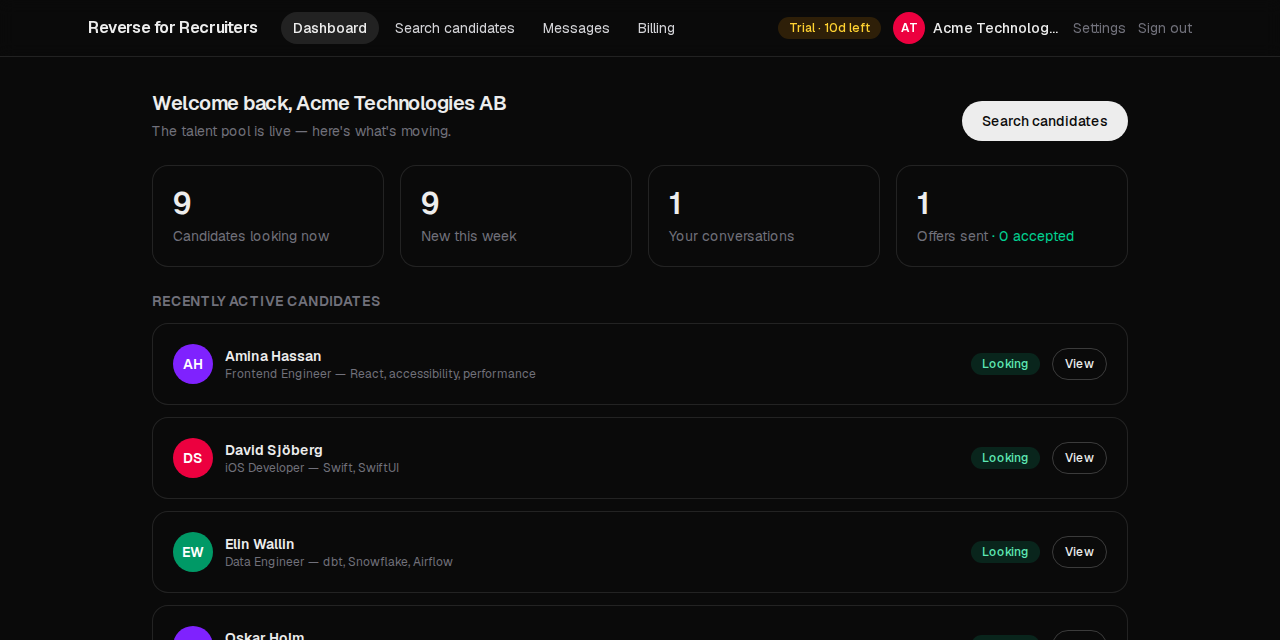
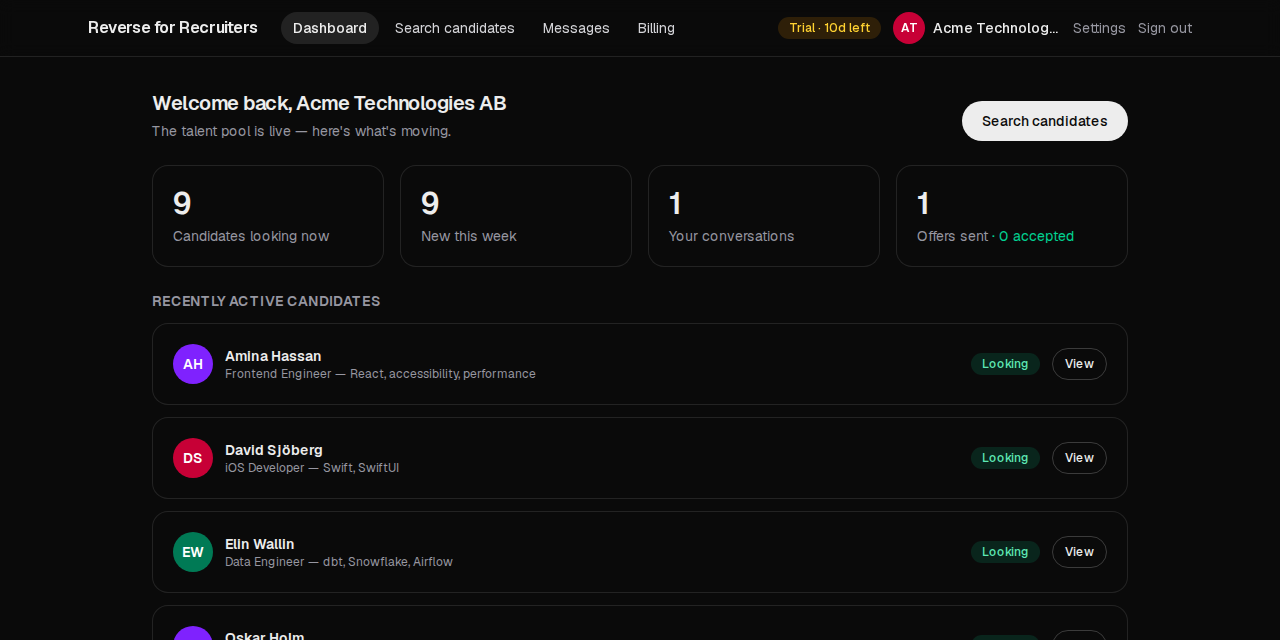
Refresh README screenshots after the contrast fixes; update session log
Claude-Session: https://claude.ai/code/session_01H3k2CXQRnZzqC1mC1eYjCK

diff --git a/SESSION-LOG.md b/SESSION-LOG.md
@@ -26,6 +26,9 @@
   - Komplett GDPR-export.
   - Sju mindre buggar.
   - Testsvit och CI.
+  - **Ny landningssida** med produktförhandsvisning.
+  - **Godkänd tillgänglighetsgranskning** (axe-core, WCAG 2.1 AA) på alla sidor.
+  - README med skärmdumpar.
 
 ## Vad du behöver göra eller bestämma
 
@@ -76,6 +79,9 @@ Tre nya migrationer följer med. Seeden återställer demodatan.
 | `0085bcc` | **GDPR-export v2** | Innehåller nu mottagna meddelanden och erbjudanden plus CV-utkastet ("everything we store about you") |
 | `f8f8b46` | Städning av död kod | `src/types/index.ts`, `pg`, fem oanvända SVG-filer och en inaktuell schema-kommentar (HANDOFF §8 punkt 14) |
 | `3b270bb` | **Svar på erbjudanden** | `JobOffer.status` och `respondedAt` (migration). Bara mottagaren kan svara, och bara en gång. Svaret postas i tråden. Dashboarden visar "N accepted". Dessutom var erbjudandekortet **grågrönt och svårläst** i avsändarens bubbla, både i ljust och mörkt läge. Nu är det ogenomskinligt |
+| `8ca4808` | **Ny landningssida** | Hero med produktförhandsvisning (profil med "Looking for work" och ett inkommande erbjudande), "How it works" i tre steg, målgruppskort och en compliance-remsa som gör reglerna till säljargument. All text motsvarar funktioner som faktiskt finns. Mobil: en grid-bugg klippte texten på 390 px, hittad genom att mäta elementens bredd |
+| `6a93a56` | **Dokumentation** | README med skärmdumpar, nya features, en testsektion och ett "Getting started" som inte kan kopieras fel (ett kodblock per terminal, utan `# terminal 1`-kommentarerna som orsakade incidenten). AGENTS.md (laddas i varje session) och en statusruta i HANDOFF är uppdaterade |
+| `c4539f6` | **Tillgänglighet** | axe-core på alla 15 sidor, ljust och mörkt. Förut: 2 feltyper, efter: **0**. Gråtext under WCAG-gränsen (2,6:1 och 4,1:1) justerades centralt per färgschema med uträknade värden. Avatarfärgerna var 3,2–4,0:1 och är nu 5,0–6,1:1. Länkfärger justerades. `<h1>` saknades på tre sidor. Knappar låg inuti länkar (ogiltig HTML). Registreringens rollval saknade synlig fokusram |
 | `4419c3c` | **Rate limiting** (Postgres-baserad) | Inloggning: 10 misslyckade försök per konto och 30 per nätverk per 15 min. Lyckade inloggningar räknas inte. Registrering: 5 per nätverk per timme. Kontaktförsök: 50 per företag per dygn. Räknarna ligger i Postgres, så de gäller även på Vercel där varje anrop kan hamna på en ny instans. Atomiskt: 20 parallella försök mot gränsen 5 släpper igenom exakt 5 |
 | `4e4edc3` | **Betalvägg med provperiod** | `Company.trialEndsAt` (migration med backfill). Sök, profiler och kontakt spärras på servern när provperioden tagit slut. Dashboarden gömmer kandidatnamn när företaget är spärrat. Märket visar "Trial · 10d left" |
 
@@ -90,6 +96,7 @@ Tre nya migrationer följer med. Seeden återställer demodatan.
 | Playwright: svar på erbjudande | 4/4: Anna accepterar → kortet visar Accepted → företaget ser det → dashboarden räknar |
 | Playwright: betalväggen | 8/8: märket visar dagar kvar → provperioden går ut → dashboarden gömmer namn, sök och profil skickar till Billing, inkorgen är öppen |
 | Playwright: brute force | Försök 10 ger "Invalid email or password", försök 11 ger **"Too many sign-in attempts. Try again in 15 minutes."** |
+| axe-core (WCAG 2.1 A/AA + best practices), 15 sidor × ljust/mörkt | Förut 2 feltyper (kontrast, saknad `<h1>`), efter **0** |
 | Playwright: mobil 390 px | Sign out syns, ingen horisontell scroll (båda rollerna) |
 | GitHub Actions CI | **Grön** på alla pushar. De två "cancelled" byttes ut av nyare pushar |
 
@@ -106,6 +113,7 @@ Tre nya migrationer följer med. Seeden återställer demodatan.
 6. **Profilformulären ignorerar ogiltig input tyst,** till exempel slutdatum före startdatum. Servern stoppar det nu, men användaren får ingen förklaring. Samma mönster som erbjudandeformuläret (`useActionState`) löser det.
 7. **Paginering** i flödet (50), sökningen (30) och kontakter (laddar alla).
 8. **Villkorssida** (terms of service) och riktig kontakt i privacy-policyn.
+9. **E2E-tester i repot:** Playwright-skripten jag körde i molnet (smoke, erbjudanden, betalvägg, brute force, mobil) kan bli `e2e/*.spec.ts` och köras i CI mot `next start`. Det hade fångat inloggningsbuggen direkt.
 
 ## Ärliga brasklappar
 

diff --git a/README.md b/README.md
@@ -13,6 +13,8 @@ front.
 | **Company dashboard (dark mode)** | **Phone** |
 | ![Dashboard in dark mode](docs/screenshots/company-dashboard-dark.png) | <img src="docs/screenshots/mobile-feed.png" alt="Feed on a phone" width="260"> |
 
+![Candidate profile with the outreach panel](docs/screenshots/company-candidate.png)
+
 ## Features
 
 **For candidates (free)**
@@ -39,7 +41,8 @@ front.
 - Dashboard with live market stats (incl. accepted offers); billing page with
   trial/subscription state (Stripe-ready)
 
-**Security & GDPR**
+**Security, accessibility & GDPR**
+- Passes an axe-core audit (WCAG 2.1 AA) on every page, light and dark mode
 - Authorization in the data layer; **rate limiting** on sign-in (per account and per
   network), sign-up and outreach, stored in Postgres so it holds on serverless
 - `/privacy` policy that maps 1:1 to actual behavior; single essential cookie (no banner needed)
